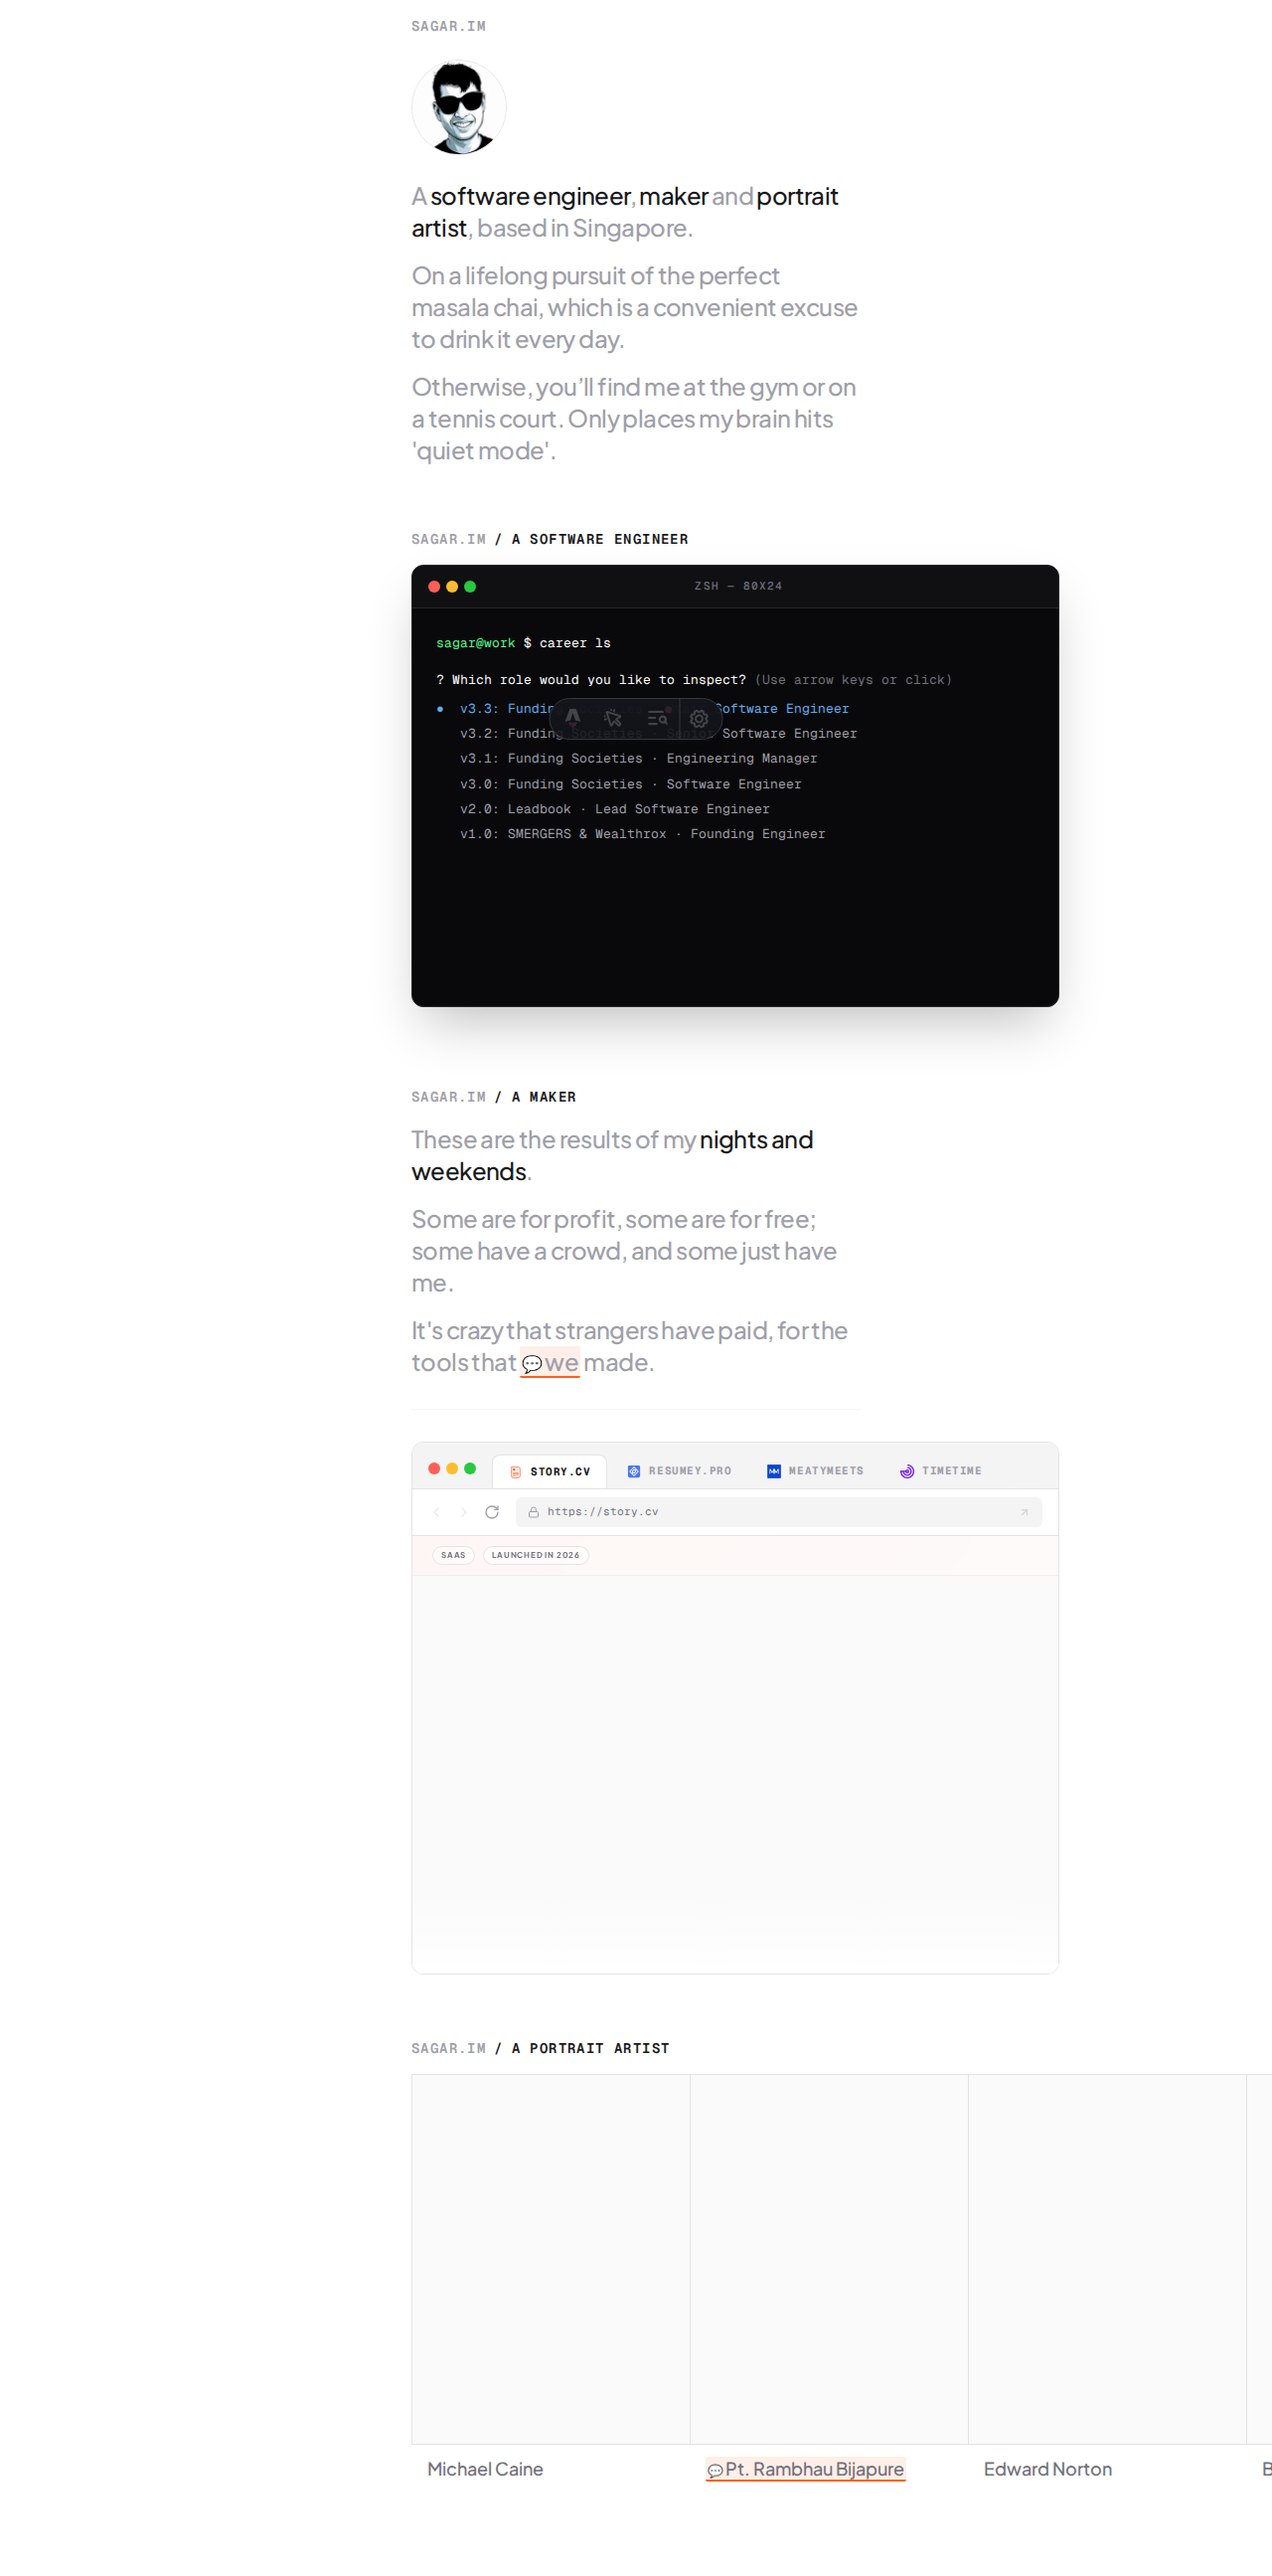
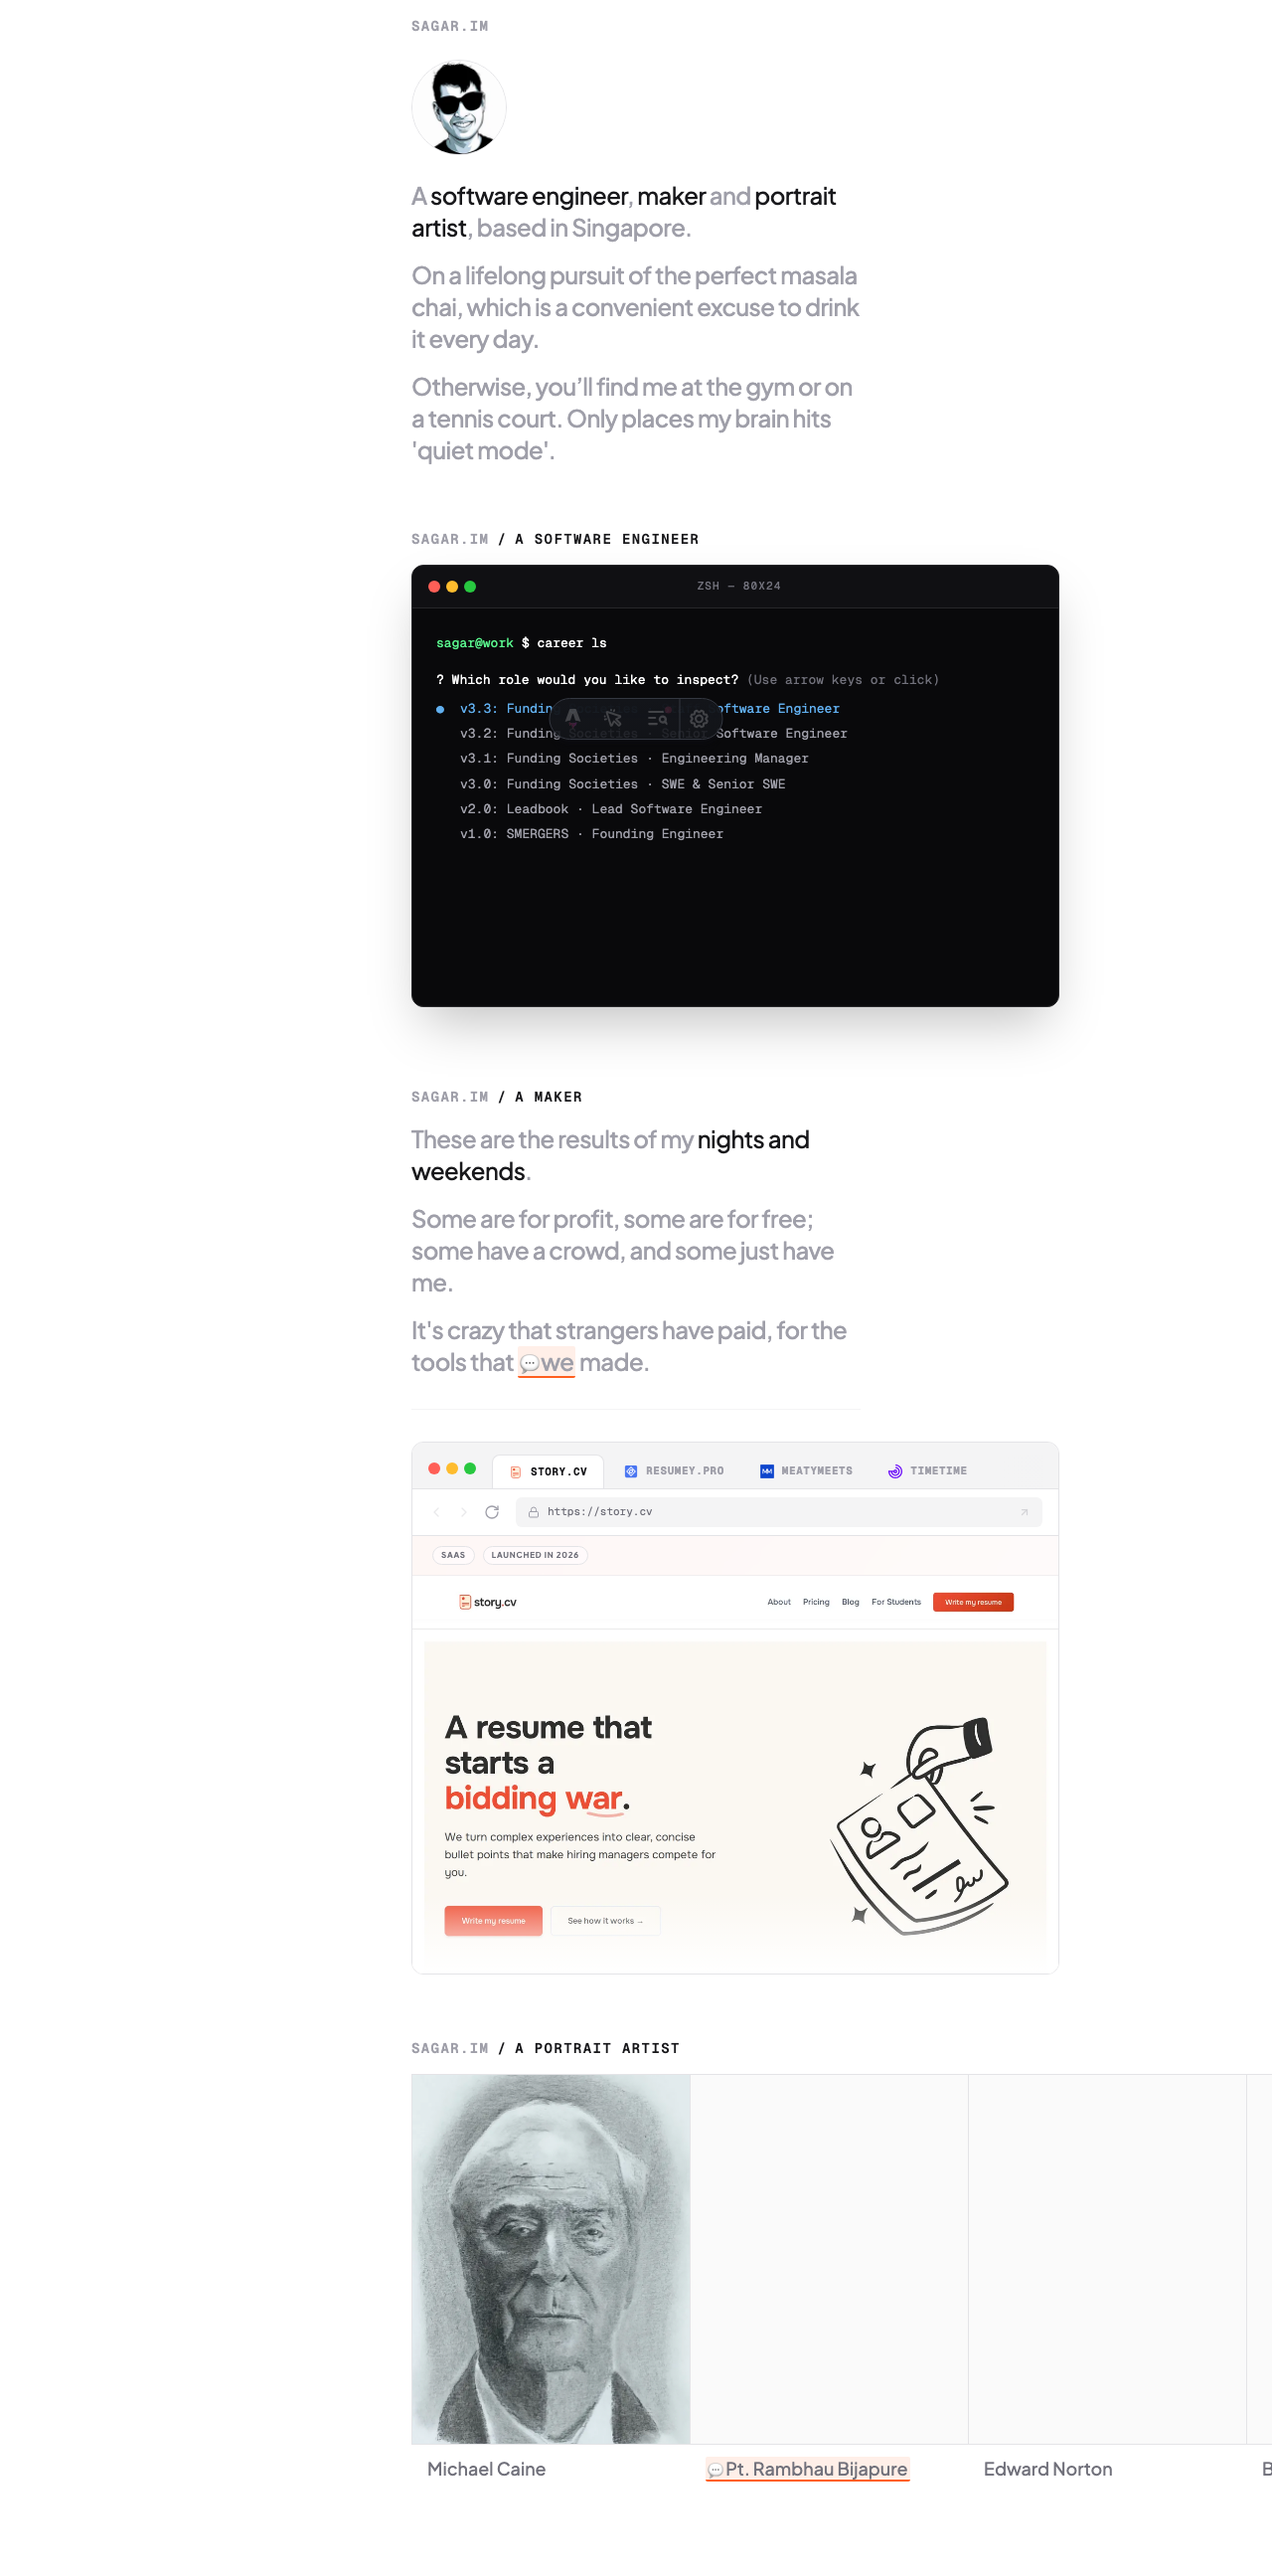
Updating the content.

diff --git a/src/content/career/v3-3-funding-societies-staff.md b/src/content/career/v3-3-funding-societies-staff.md
@@ -5,7 +5,7 @@ company: "Funding Societies"
 location: "Singapore"
 period: "January 2025 to Present"
 role: "Staff Software Engineer"
-description: "Driving engineering productivity via RAG-based AI agents and L1 automation."
-stack: ["Claude Code", "RAG Models", "GitHub CI", "Advanced Query Optimization"]
-order: 6
+description: "Focused on improving engineer productivity, led the automation of L1 tech support and integration of AI coding agents into the engineering workflow."
+stack: ["LLMs", "Vector DB", "ActivePieces", "Node.js", "Typescript", "Golang", "Serverless"]
+order: 5
 ---

diff --git a/src/content/career/v3-0-funding-societies-se.md b/src/content/career/v3-0-funding-societies-se.md
@@ -4,8 +4,8 @@ date: "2019-03-10"
 company: "Funding Societies"
 location: "Singapore"
 period: "March 2019 to October 2021"
-role: "Software Engineer"
-description: "Built seamless automated application journeys to digitize customer financing."
-stack: ["Typescript", "Python", "Golang", "Microservices", "Angular", "Serverless"]
+role: "SWE & Senior SWE"
+description: "Led end-to-end delivery of automated eKYC and onboarding systems, while managing core-service architecture, engineering mentorship."
+stack: ["Typescript", "Python", "Golang", "Microservices", "Angular"]
 order: 3
 ---

diff --git a/src/content/career/v2-0-leadbook.md b/src/content/career/v2-0-leadbook.md
@@ -5,7 +5,7 @@ company: "Leadbook"
 location: "Singapore"
 period: "July 2017 to March 2019"
 role: "Lead Software Engineer"
-description: "Re-architected the core system for global scalability."
+description: "Joined the team to re-architect the legacy system for high-volume data processing, eventually stepping up to lead the engineering team. Partnered directly with the CEO to synchronize technical roadmaps with business goals and ensure the consistent delivery of product features."
 stack: ["Python", "Django", "Elasticsearch", "React", "Terraform", "Ansible"]
 order: 2
 ---

diff --git a/src/content/career/v3-2-funding-societies-sse.md b/src/content/career/v3-2-funding-societies-sse.md
@@ -5,7 +5,7 @@ company: "Funding Societies"
 location: "Singapore"
 period: "July 2023 to January 2025"
 role: "Senior Software Engineer"
-description: "Returned to IC to lead major core data model redesigns across 10+ services."
-stack: ["Node.js", "Typescript", "AWS Serverless", "Document Automation"]
+description: "Returned to IC role to take on large initiatives such as redesigning the core user data model and engineering a modular framework to launch new product application journeys faster."
+stack: ["Node.js", "Typescript", "Appsmith"]
 order: 5
 ---

diff --git a/src/content/career/v3-1-funding-societies-em.md b/src/content/career/v3-1-funding-societies-em.md
@@ -5,7 +5,7 @@ company: "Funding Societies"
 location: "Singapore"
 period: "October 2021 to July 2023"
 role: "Engineering Manager"
-description: "Led a team of 11 (SWE/QA) through hyper-growth and regional expansion."
-stack: ["SCRUM", "Stakeholder Mgmt", "Technical Roadmap", "Performance Mentorship"]
+description: "Managed a team of 11 (Engineers & QA), overseeing the end-to-end digitization of onboarding and eKYC processes across South East Asia."
+stack: ["Google Meet", "Google Slides", "JIRA"]
 order: 4
 ---

diff --git a/src/content/career/v1-0-smergers.md b/src/content/career/v1-0-smergers.md
@@ -1,11 +1,11 @@
 ---
 version: "v1.0"
 date: "2014-07-14"
-company: "SMERGERS & Wealthrox"
+company: "SMERGERS"
 location: "Bangalore"
 period: "July 2014 to July 2017"
 role: "Founding Engineer"
-description: "Architected the 0-to-1 journey from UI/UX to deployment."
-stack: ["Python", "Django", "React", "jQuery", "Google Maps API"]
+description: "As a first engineer, I worked directly with founders to design, build, and ship the product features"
+stack: ["Python", "Django", "React", "jQuery"]
 order: 1
 ---
